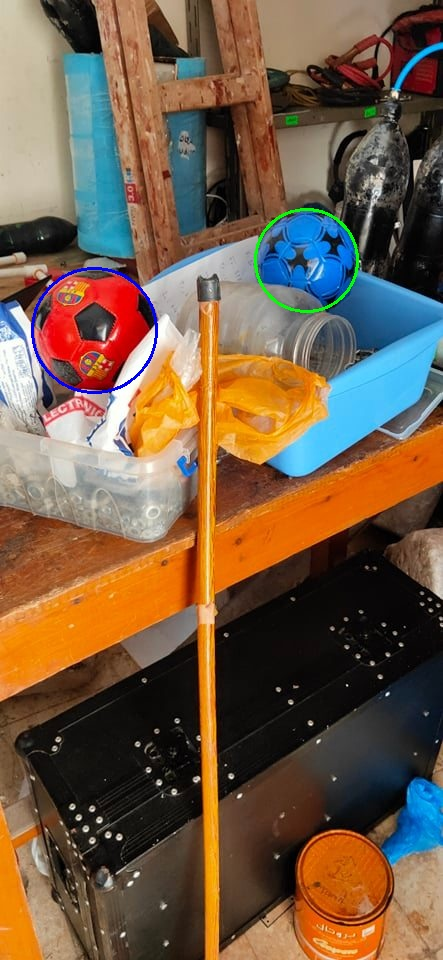
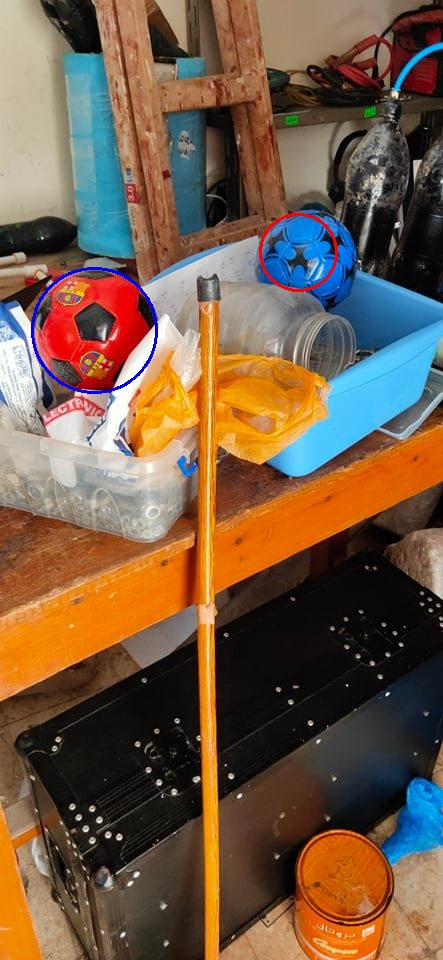
improved accuracy

Changed region(s): [[0.5576, 0.2188, 0.8217, 0.3438]]

diff --git a/1. Classical View/Detector.py b/1. Classical View/Detector.py
@@ -9,7 +9,7 @@ class BallDetector:
 
     def detect_balls(self):
         # Define the lower and upper bounds of the blue color in HSV
-        lower_blue = np.array([90, 50, 50])
+        lower_blue = np.array([110, 50, 50])
         upper_blue = np.array([130, 255, 255])
 
         # Define the lower and upper bounds of the red color in HSV
@@ -34,8 +34,8 @@ class BallDetector:
             cv2.HOUGH_GRADIENT,
             dp=1,
             minDist=200,
-            param1=450,
-            param2=20,
+            param1=60,
+            param2=22.4,
             minRadius=10,
             maxRadius=200
         )
@@ -47,12 +47,12 @@ class BallDetector:
             dp=1,
             minDist=200,
             param1=470,
-            param2=23,
-            minRadius=12,
+            param2=23.4,
+            minRadius=19,
             maxRadius=150
         )
 
-        smallest_red_circle = None
+        largest_red_circle = None
         largest_blue_circle = None
 
         # Initialize variables to track smallest and largest radii
@@ -76,16 +76,16 @@ class BallDetector:
                 radius = circle[2]
                 if radius < min_red_radius:
                     min_red_radius = radius
-                    smallest_red_circle = (center, radius)
+                    largest_red_circle = (center, radius)
 
-        # Draw the smallest red and largest blue circles on the original image
-        if smallest_red_circle is not None:
-            center, radius = smallest_red_circle
+        # Draw the largest red and blue circles on the original image
+        if largest_red_circle is not None:
+            center, radius = largest_red_circle
             cv2.circle(self.image, center, radius, (255, 0, 0), 2)
 
         if largest_blue_circle is not None:
             center, radius = largest_blue_circle
-            cv2.circle(self.image, center, radius, (0, 255, 0), 2)
+            cv2.circle(self.image, center, radius, (0, 0, 255), 2)
 
     def display_result(self):
         cv2.imshow('Balls Detected', self.image)

diff --git a/1. Classical View/Readme.md b/1. Classical View/Readme.md
@@ -24,6 +24,7 @@ The BallDetector class is responsible for detecting balls in an image. It uses t
 * Creates masks for blue and red colors in the image.
 * Applies Gaussian Blur to the masks to reduce noise.
 * Uses Hough Circle detection to find blue and red circles in the image.
+* Choose the largest blue and red circles in the image
 * Draws these circles on the original image.
 * Provides methods to display and save the results.
 
